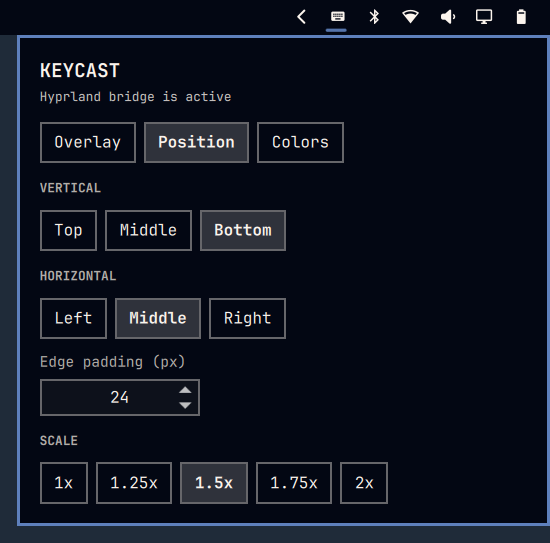
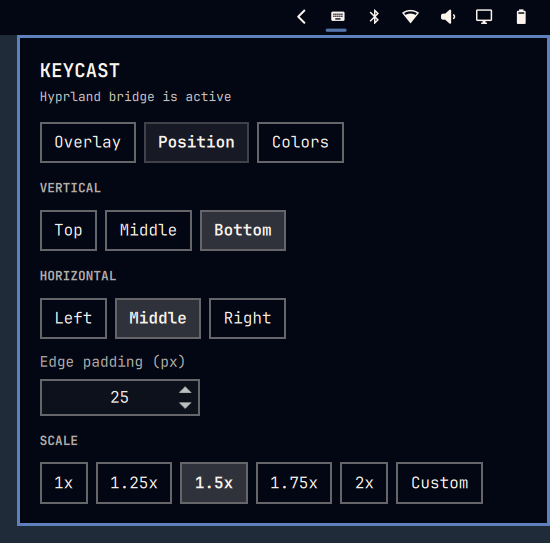
docs: refresh position settings screenshot with custom scale
- Crop latest Pictures shot to the upper-right Position page
- Caption notes Custom on the preset row and the 0.5-5 spin

diff --git a/README.md b/README.md
@@ -22,7 +22,8 @@ Hyprland bridge is installed or removed from this page.*
 ![Position settings](screenshots/settings-position.png)
 
 *Position page - vertical and horizontal edge (including middle), padding from
-the chosen edge, and overlay scale (including a custom value).*
+the chosen edge, and overlay scale. Custom sits on the same row as the presets
+and opens a spin field for 0.5-5.*
 
 ![Color settings](screenshots/settings-colors.png)
 
